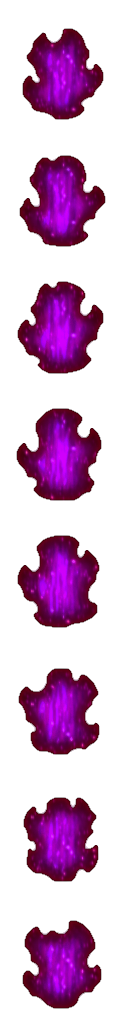
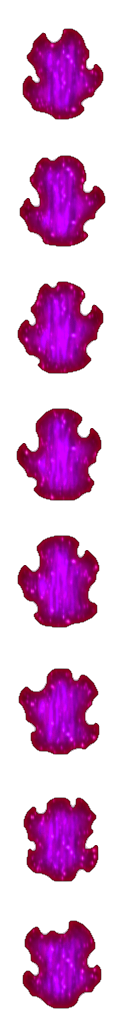
Mostly finished Mystics and updated aura blendstates
Note: ssb needs an aura update

diff --git a/Transformations/Mystics/AwakenedMystic/AwakenedMysticTransformation.cs b/Transformations/Mystics/AwakenedMystic/AwakenedMysticTransformation.cs
@@ -1,0 +1,32 @@
+using DBT.Auras;
+using Microsoft.Xna.Framework.Graphics;
+using Terraria;
+
+namespace DBT.Transformations.Mystics.AwakenedMystic
+{
+    public sealed class AwakenedMysticTransformation : TransformationDefinition
+    {
+        public AwakenedMysticTransformation(params TransformationDefinition[] parents) : base(
+            "AwakenedMystic", "Awakened Mystic", typeof(AwakenedMysticTransformationBuff),
+            4.2f, 4.2f, 28, new TransformationDrain(80f / Constants.TICKS_PER_SECOND, 0f), new AwakenedMysticTransformationAppearance(),
+            new TransformationOverload(0f, 0f), mastereable: false, parents: parents)
+        {
+        }
+    }
+
+    public sealed class AwakenedMysticTransformationBuff : TransformationBuff
+    {
+        public AwakenedMysticTransformationBuff() : base(TransformationDefinitionManager.Instance.AwakenedMystic)
+        {
+        }
+    }
+
+    public sealed class AwakenedMysticTransformationAppearance : TransformationAppearance
+    {
+        public AwakenedMysticTransformationAppearance() : base(new AuraAppearance(new AuraAnimationInformation(typeof(AwakenedMysticTransformation), 8, 3, BlendState.Additive, 1f, true),
+                new LightingAppearance(new float[] { 1f, 1f, 1f })),
+            new HairAppearance(Main.LocalPlayer.hairColor), Main.LocalPlayer.hairColor, Main.LocalPlayer.eyeColor)
+        {
+        }
+    }
+}

diff --git a/Transformations/TransformationDefinitionManager.cs b/Transformations/TransformationDefinitionManager.cs
@@ -15,6 +15,8 @@ using DBT.Transformations.SSJs.SSJ1s.USSJ1;
 using DBT.Transformations.SSJs.SSJ2;
 using DBT.Transformations.SSJs.SSJ3;
 using DBT.Transformations.SSJs.SSJ4s.SSJ4;
+using DBT.Transformations.Mystics.Mystic;
+using DBT.Transformations.Mystics.AwakenedMystic;
 
 namespace DBT.Transformations
 {
@@ -40,6 +42,9 @@ namespace DBT.Transformations
             Wrathful = Add(new WrathfulTransformation()) as WrathfulTransformation;
             SSJC = Add(new SSJCTypeTransformation(Wrathful)) as SSJCTypeTransformation;
             LSSJ = Add(new LSSJTransformation(SSJC)) as LSSJTransformation;
+
+            Mystic = Add(new MysticTransformation()) as MysticTransformation;
+            AwakenedMystic = Add(new AwakenedMysticTransformation(Mystic)) as AwakenedMysticTransformation;
 
             SoulStealer = Add(new SoulStealerTransformation()) as SoulStealerTransformation;
 
@@ -70,6 +75,9 @@ namespace DBT.Transformations
         public WrathfulTransformation Wrathful { get; private set; }
         public SSJCTypeTransformation SSJC { get; private set; }
         public LSSJTransformation LSSJ { get; private set; }
+
+        public MysticTransformation Mystic { get; private set; }
+        public AwakenedMysticTransformation AwakenedMystic { get; private set; }
 
         public SoulStealerTransformation SoulStealer { get; private set; }
 

diff --git a/Transformations/Mystics/Mystic/MysticTransformation.cs b/Transformations/Mystics/Mystic/MysticTransformation.cs
@@ -1,0 +1,34 @@
+using DBT.Auras;
+using Microsoft.Xna.Framework;
+using Microsoft.Xna.Framework.Graphics;
+using Terraria;
+
+namespace DBT.Transformations.Mystics.Mystic
+{
+    public sealed class MysticTransformation : TransformationDefinition
+    {
+        public MysticTransformation(params TransformationDefinition[] parents) : base("Mystic", "Mystic", typeof(MysticTransformationBuff), 1.6f, 1.6f, 3,
+            new TransformationDrain(25f / Constants.TICKS_PER_SECOND, 0f), new MysticTransformationAppearance(), 
+            new TransformationOverload(0, 0), mastereable: false,
+            parents: parents)
+        {
+        }
+    }
+
+    public sealed class MysticTransformationBuff : TransformationBuff
+    {
+        public MysticTransformationBuff() : base(TransformationDefinitionManager.Instance.Mystic)
+        {
+        }
+    }
+
+    public sealed class MysticTransformationAppearance : TransformationAppearance
+    {
+        public MysticTransformationAppearance() : base(
+            new AuraAppearance(new AuraAnimationInformation("Auras/BaseAura", 4, 3, BlendState.Additive, 1f, true),
+                new LightingAppearance(new float[] { 1f, 1f, 1f })),
+            new HairAppearance(Main.LocalPlayer.hairColor), Main.LocalPlayer.hairColor, Main.LocalPlayer.eyeColor)
+        {
+        }
+    }
+}

diff --git a/Transformations/SSJGs/SSJBs/SSJB/SSJBTransformation.cs b/Transformations/SSJGs/SSJBs/SSJB/SSJBTransformation.cs
@@ -27,7 +27,7 @@ namespace DBT.Transformations.SSJGs.SSJBs.SSJB
     public sealed class SSJBAppearance : TransformationAppearance
     {
         public SSJBAppearance() : base(
-            new AuraAppearance(new AuraAnimationInformation(typeof(SSJBTransformation), 8, 3, BlendState.Additive, 1f, true),
+            new AuraAppearance(new AuraAnimationInformation(typeof(SSJBTransformation), 8, 3, BlendState.Additive, 1f, true),//.AlphaBlend when ssb aura gets updated
                 new LightingAppearance(new float[] { 0.38f, 0.24f, 1.25f })),
             new HairAppearance(Color.White), Color.Blue, new Color(65, 113, 153))
         {

diff --git a/Transformations/SSJGs/SSJR/SSJRTransformation.cs b/Transformations/SSJGs/SSJR/SSJRTransformation.cs
@@ -27,7 +27,7 @@ namespace DBT.Transformations.SSJGs.SSJR
     public sealed class SSJRAppearance : TransformationAppearance
     {
         public SSJRAppearance() : base(
-            new AuraAppearance(new AuraAnimationInformation(typeof(SSJRTransformation), 8, 3, BlendState.Additive, 1f, true),
+            new AuraAppearance(new AuraAnimationInformation(typeof(SSJRTransformation), 8, 3, BlendState.AlphaBlend, 1f, true),
                 new LightingAppearance(new float[] { 1.3f, 0.36f, 0.78f })),
             new HairAppearance(Color.White), Color.MistyRose, new Color(170, 174, 183))
         {

diff --git a/Transformations/LSSJs/Wrathful/WrathfulTransformation.cs b/Transformations/LSSJs/Wrathful/WrathfulTransformation.cs
@@ -99,7 +99,7 @@ namespace DBT.Transformations.LSSJs.Wrathful
         public WrathfulTransformationAppearance() : base(
             new AuraAppearance(new AuraAnimationInformation(typeof(WrathfulTransformation), 4, 3, BlendState.Additive, 1f, true),
                 new LightingAppearance(new float[] { 0f, 1.25f, 0f })),
-            new HairAppearance(Color.White), Main.LocalPlayer.hairColor, new Color(211, 186, 44))
+            new HairAppearance(Main.LocalPlayer.hairColor), Main.LocalPlayer.hairColor, new Color(211, 186, 44))
         {
         }
     }
